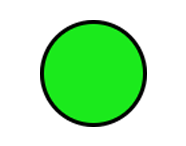
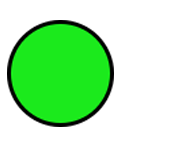
added lights with arrows to the healthworker page

diff --git a/web/src/main/resources/static/js/healthworker.js b/web/src/main/resources/static/js/healthworker.js
@@ -24,8 +24,7 @@ let test = new Vue({
                     if (row.reading == null) {
                         row.reading = {colour: null, timestamp: null};
                     }
-                    let icon = getReadingColorIcon(row.reading.colour);
-                    row.reading.colorstyle = {"background-color": icon['colour']};
+                    row.reading.colorstyle = getReadingColorIcon(row.reading.colour);
                 });
                 this.rows = this.changeDate(response.data);
             }
@@ -62,26 +61,26 @@ let test = new Vue({
 
 //From patientSummary page. Move into common js file to be reused?
 function getReadingColorIcon(digit) {
-    let colour = 'green';
+    let light = 'white';
     switch (digit) {
         case null:
-            colour = 'white';
+            light = 'white';
             break;
         case 0:
-            colour = 'green';
+            light = 'green';
             break;
         case 1:
-            colour = 'yellow';
+            light = 'yellow_down';
             break;
         case 2:
-            colour = 'yellow';
+            light = 'yellow_up';
             break;
         case 3:
-            colour = 'red';
+            light = 'red_down';
             break;
         case 4:
-            colour = 'red';
+            light = 'red_up';
             break;
     }
-    return {'colour' : colour};
-}
+    return "/img/" + light + ".png";
+};

diff --git a/web/src/main/resources/static/js/patientSummary.js b/web/src/main/resources/static/js/patientSummary.js
@@ -1,8 +1,11 @@
 Vue.prototype.$http = axios;
 
-function getReadingColorIcon(digit) {
-    let light = 'green';
+function getReadingColorIcon(digit){
+    let light = 'white';
     switch (digit) {
+        case null:
+            light = 'white';
+            break;
         case 0:
             light = 'green';
             break;
@@ -21,6 +24,7 @@ function getReadingColorIcon(digit) {
     }
     return "/img/" + light + ".png";
 };
+
 
 Vue.component('basic_info', {
     vuetify: new Vuetify(),
@@ -119,7 +123,6 @@ Vue.component('readings_table' , {
             this.rows = this.changeDate(response.data);
             this.calcGraphData(response.data);
             this.rows.forEach((row)=> {
-                console.log(row);
                 row.colorstyle = getReadingColorIcon(row.colour);
             })
         })

diff --git a/web/src/main/resources/templates/healthworker.html b/web/src/main/resources/templates/healthworker.html
@@ -29,7 +29,8 @@
                                 <td>{{tester(props.item.reading.timestamp)}}</td>
                             </template>
                             <template v-slot:item.colour="{ item }">
-                                <span class="dot" :style="item.reading.colorstyle"></span>
+<!--                                <span class="dot" :style="item.reading.colorstyle"></span>-->
+                                <td><img id="light" ref="light" :src=item.reading.colorstyle height="50" width="60" style="margin-bottom: 12px"></td>
                             </template>
                             <template v-slot:item.view="{ item }">
                                 <button v-on:click="viewPatientData(item.patient.id)" class="btn btn-outline-info">View Patient Data</button>
